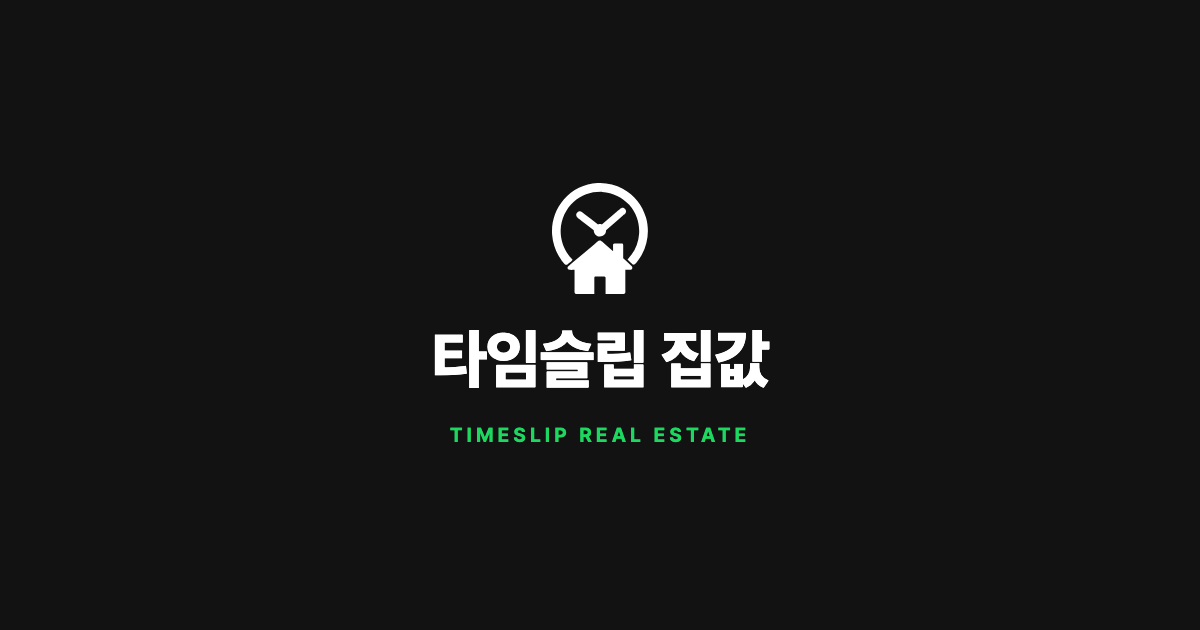
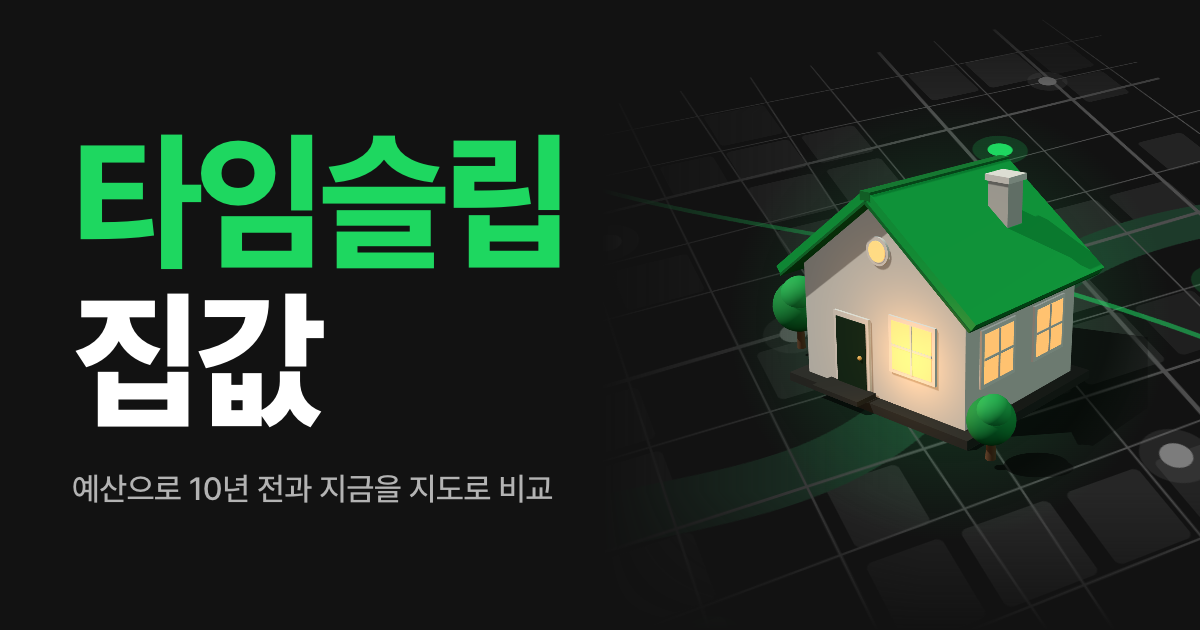
공유 이미지를 타이틀과 3D 집, 지도 디자인으로 교체

diff --git a/design/og/og-image.html b/design/og/og-image.html
@@ -1,0 +1,11 @@
+<!doctype html><html lang="ko"><head><meta charset="utf-8"><link rel="stylesheet" href="https://cdn.jsdelivr.net/gh/orioncactus/pretendard@v1.3.9/dist/web/static/pretendard.min.css"><style>
+*{box-sizing:border-box;margin:0}html,body{width:1200px;height:630px;overflow:hidden;background:#121212;color:#fff;font-family:Pretendard,sans-serif;-webkit-font-smoothing:antialiased;word-break:keep-all}
+.scene{position:absolute;left:470px;top:0;width:730px;height:630px;overflow:hidden;-webkit-mask-image:linear-gradient(90deg,transparent 18%,#000 62%),linear-gradient(0deg,transparent 0,#000 22%,#000 82%,transparent 100%);-webkit-mask-composite:source-in;mask-composite:intersect}
+.plane{position:absolute;left:-70px;top:-210px;width:1000px;height:1000px;transform:perspective(1100px) rotateX(52deg) rotateZ(-24deg)}
+.house{position:absolute;left:690px;top:40px;width:520px;height:520px;z-index:2;transform:translateX(-10px) scale(.8);transform-origin:center;-webkit-mask-image:radial-gradient(ellipse 58% 62% at 50% 50%,#000 72%,transparent 100%)}#house3d{width:520px;height:520px;display:block}
+.glow{position:absolute;left:720px;top:90px;width:460px;height:460px;border-radius:50%;background:radial-gradient(circle,rgba(30,215,96,.24),transparent 68%)}
+.copy{position:absolute;left:72px;top:0;height:630px;display:flex;flex-direction:column;justify-content:center;z-index:3}
+h1{font-size:150px;font-weight:800;letter-spacing:-.04em;line-height:1.06}h1 span{color:#1ed760}
+p{margin-top:30px;font-size:32px;font-weight:500;color:#b3b3b3;letter-spacing:-.01em}
+</style></head><body><div class="scene"><div class="plane"><svg xmlns="http://www.w3.org/2000/svg" viewBox="0 0 1000 1000" width="1000" height="1000"><rect x="68" y="798" width="74" height="79" rx="6" fill="#262626"/><rect x="158" y="173" width="69" height="69" rx="6" fill="#1f1f1f"/><rect x="158" y="533" width="69" height="69" rx="6" fill="#232323"/><rect x="158" y="618" width="69" height="79" rx="6" fill="#2a2a2a"/><rect x="158" y="713" width="69" height="69" rx="6" fill="#1f1f1f"/><rect x="158" y="798" width="69" height="79" rx="6" fill="#2a2a2a"/><rect x="158" y="893" width="69" height="49" rx="6" fill="#232323"/><rect x="243" y="353" width="79" height="69" rx="6" fill="#1f1f1f"/><rect x="338" y="173" width="64" height="69" rx="6" fill="#1f1f1f"/><rect x="338" y="533" width="64" height="69" rx="6" fill="#2a2a2a"/><rect x="338" y="713" width="64" height="69" rx="6" fill="#2a2a2a"/><rect x="338" y="798" width="64" height="79" rx="6" fill="#232323"/><rect x="418" y="78" width="79" height="79" rx="6" fill="#1f1f1f"/><rect x="418" y="173" width="79" height="69" rx="6" fill="#262626"/><rect x="418" y="258" width="79" height="79" rx="6" fill="#2a2a2a"/><rect x="418" y="353" width="79" height="69" rx="6" fill="#2a2a2a"/><rect x="418" y="438" width="79" height="79" rx="6" fill="#1f1f1f"/><rect x="418" y="798" width="79" height="79" rx="6" fill="#2a2a2a"/><rect x="513" y="173" width="69" height="69" rx="6" fill="#262626"/><rect x="513" y="258" width="69" height="79" rx="6" fill="#262626"/><rect x="513" y="353" width="69" height="69" rx="6" fill="#262626"/><rect x="513" y="438" width="69" height="79" rx="6" fill="#262626"/><rect x="513" y="533" width="69" height="69" rx="6" fill="#232323"/><rect x="513" y="618" width="69" height="79" rx="6" fill="#1f1f1f"/><rect x="513" y="798" width="69" height="79" rx="6" fill="#262626"/><rect x="598" y="353" width="84" height="69" rx="6" fill="#2a2a2a"/><rect x="598" y="438" width="84" height="79" rx="6" fill="#2a2a2a"/><rect x="598" y="533" width="84" height="69" rx="6" fill="#2a2a2a"/><rect x="598" y="618" width="84" height="79" rx="6" fill="#232323"/><rect x="598" y="798" width="84" height="79" rx="6" fill="#232323"/><rect x="598" y="893" width="84" height="49" rx="6" fill="#232323"/><rect x="698" y="78" width="69" height="79" rx="6" fill="#262626"/><rect x="698" y="438" width="69" height="79" rx="6" fill="#262626"/><rect x="698" y="618" width="69" height="79" rx="6" fill="#1f1f1f"/><rect x="783" y="78" width="79" height="79" rx="6" fill="#2a2a2a"/><rect x="783" y="438" width="79" height="79" rx="6" fill="#232323"/><rect x="878" y="78" width="64" height="79" rx="6" fill="#1f1f1f"/><rect x="878" y="173" width="64" height="69" rx="6" fill="#232323"/><rect x="878" y="353" width="64" height="69" rx="6" fill="#232323"/><rect x="878" y="533" width="64" height="69" rx="6" fill="#1f1f1f"/><rect x="878" y="713" width="64" height="69" rx="6" fill="#262626"/><path d="M-20 700 C 180 620, 290 760, 470 640 S 760 480, 1020 560" fill="none" stroke="#1d3a2a" stroke-width="58" stroke-linecap="round"/><line x1="60" y1="0" x2="90" y2="1000" stroke="#4d4d4d" stroke-width="3"/><line x1="150" y1="0" x2="145" y2="1000" stroke="#4d4d4d" stroke-width="2"/><line x1="235" y1="0" x2="209" y2="1000" stroke="#4d4d4d" stroke-width="2"/><line x1="330" y1="0" x2="323" y2="1000" stroke="#4d4d4d" stroke-width="2"/><line x1="410" y1="0" x2="438" y2="1000" stroke="#4d4d4d" stroke-width="2"/><line x1="505" y1="0" x2="477" y2="1000" stroke="#4d4d4d" stroke-width="2"/><line x1="590" y1="0" x2="587" y2="1000" stroke="#4d4d4d" stroke-width="2"/><line x1="690" y1="0" x2="664" y2="1000" stroke="#4d4d4d" stroke-width="5"/><line x1="775" y1="0" x2="750" y2="1000" stroke="#4d4d4d" stroke-width="2"/><line x1="870" y1="0" x2="843" y2="1000" stroke="#4d4d4d" stroke-width="5"/><line x1="950" y1="0" x2="980" y2="1000" stroke="#4d4d4d" stroke-width="2"/><line x1="0" y1="70" x2="1000" y2="80" stroke="#4d4d4d" stroke-width="2"/><line x1="0" y1="165" x2="1000" y2="171" stroke="#4d4d4d" stroke-width="2"/><line x1="0" y1="250" x2="1000" y2="223" stroke="#4d4d4d" stroke-width="5"/><line x1="0" y1="345" x2="1000" y2="317" stroke="#4d4d4d" stroke-width="2"/><line x1="0" y1="430" x2="1000" y2="418" stroke="#4d4d4d" stroke-width="2"/><line x1="0" y1="525" x2="1000" y2="504" stroke="#4d4d4d" stroke-width="5"/><line x1="0" y1="610" x2="1000" y2="616" stroke="#4d4d4d" stroke-width="2"/><line x1="0" y1="705" x2="1000" y2="710" stroke="#4d4d4d" stroke-width="3"/><line x1="0" y1="790" x2="1000" y2="766" stroke="#4d4d4d" stroke-width="2"/><line x1="0" y1="885" x2="1000" y2="878" stroke="#4d4d4d" stroke-width="2"/><line x1="0" y1="950" x2="1000" y2="955" stroke="#4d4d4d" stroke-width="2"/><path d="M120 -10 C 260 240, 420 330, 560 470 S 820 800, 900 1010" fill="none" stroke="#1ed760" stroke-opacity=".55" stroke-width="7"/><circle cx="250" cy="300" r="33.0" fill="#7c7c7c" fill-opacity=".18"/><circle cx="250" cy="300" r="15" fill="#7c7c7c"/><circle cx="380" cy="520" r="28.6" fill="#7c7c7c" fill-opacity=".18"/><circle cx="380" cy="520" r="13" fill="#7c7c7c"/><circle cx="720" cy="300" r="33.0" fill="#1ed760" fill-opacity=".18"/><circle cx="720" cy="300" r="15" fill="#1ed760"/><circle cx="800" cy="620" r="28.6" fill="#1ed760" fill-opacity=".18"/><circle cx="800" cy="620" r="13" fill="#1ed760"/><circle cx="620" cy="800" r="30.800000000000004" fill="#7c7c7c" fill-opacity=".18"/><circle cx="620" cy="800" r="14" fill="#7c7c7c"/><circle cx="210" cy="820" r="26.400000000000002" fill="#1ed760" fill-opacity=".18"/><circle cx="210" cy="820" r="12" fill="#1ed760"/><circle cx="860" cy="170" r="26.400000000000002" fill="#7c7c7c" fill-opacity=".18"/><circle cx="860" cy="170" r="12" fill="#7c7c7c"/></svg></div></div><div class="glow"></div><div class="house"><canvas id="house3d"></canvas></div><script type="module" src="house.js"></script>
+<div class="copy"><h1><span>타임슬립</span><br>집값</h1><p>예산으로 10년 전과 지금을 지도로 비교</p></div></body></html>

diff --git a/design/og/house.js b/design/og/house.js
@@ -1,0 +1,80 @@
+import * as THREE from 'https://cdn.jsdelivr.net/npm/three@0.160.0/build/three.module.js';
+const size = 620;
+const canvas = document.getElementById('house3d');
+const r = new THREE.WebGLRenderer({ canvas, alpha: true, antialias: true, preserveDrawingBuffer: true });
+r.setPixelRatio(2); r.setSize(size, size, false);
+r.setClearColor(0x000000, 0);
+r.shadowMap.enabled = true; r.shadowMap.type = THREE.PCFSoftShadowMap;
+r.toneMapping = THREE.LinearToneMapping; r.toneMappingExposure = .78;
+r.outputColorSpace = THREE.SRGBColorSpace;
+const scene = new THREE.Scene();
+const cam = new THREE.PerspectiveCamera(24, 1, .1, 100);
+cam.position.set(11.6, 8.2, 13.8); cam.lookAt(0, 1.7, 0);
+
+const mat = (color, roughness = .75, extra = {}) => new THREE.MeshStandardMaterial({ color, roughness, metalness: 0, ...extra });
+const wall = mat(0xf1f3f1, .85), trim = mat(0xffffff, .6), roofM = mat(0x12c653, .5), roofDark = mat(0x0b8a39, .6);
+const glass = mat(0xffd9a0, .35, { emissive: 0xffb45e, emissiveIntensity: 1.1 });
+const doorM = mat(0x17331f, .5), base = mat(0x2a2d2b, .9), chim = mat(0xd9dcda, .85);
+const add = (geo, m, x = 0, y = 0, z = 0, parent = scene) => { const o = new THREE.Mesh(geo, m); o.position.set(x, y, z); o.castShadow = o.receiveShadow = true; parent.add(o); return o; };
+const box = (w, h, d, m, x, y, z, parent) => add(new THREE.BoxGeometry(w, h, d), m, x, y, z, parent);
+
+const W = 4, D = 3.4, H = 2.3, R = 1.55;
+// 기단
+box(W + .55, .18, D + .55, base, 0, .09, 0);
+// 벽체: 오각형 단면을 깊이 방향으로 돌출
+const s = new THREE.Shape();
+s.moveTo(-W / 2, 0); s.lineTo(W / 2, 0); s.lineTo(W / 2, H); s.lineTo(0, H + R); s.lineTo(-W / 2, H); s.closePath();
+const body = add(new THREE.ExtrudeGeometry(s, { depth: D, bevelEnabled: false }), wall, 0, .18, -D / 2);
+// 지붕
+const ang = Math.atan2(R, W / 2), len = Math.hypot(W / 2, R) + .42, th = .17, rd = D + .62;
+for (const side of [-1, 1]) {
+  const g = new THREE.Group(); g.position.set(side * W / 4, .18 + H + R / 2, 0); g.rotation.z = -side * ang; scene.add(g);
+  const off = .12;
+  box(len, th, rd, roofM, side * (.21 - .0), off, 0, g);
+  box(len, .05, rd + .04, roofDark, side * .21, off - th / 2 - .02, 0, g);
+}
+box(.24, .16, rd + .02, roofDark, 0, .18 + H + R + .13, 0);
+// 굴뚝
+box(.46, 1.05, .46, chim, 1.05, 3.65, -.65);
+box(.56, .12, .56, trim, 1.05, 4.2, -.65);
+// 앞면 현관
+const fz = D / 2 + .012;
+box(.92, 1.55, .08, trim, -.72, .95, fz);
+box(.76, 1.42, .1, doorM, -.72, .91, fz + .012);
+add(new THREE.SphereGeometry(.045, 16, 12), mat(0xe8c26a, .3), -.47, .92, fz + .08);
+box(1.2, .1, .5, base, -.72, .23, fz + .28);
+// 창문
+const win = (x, y, z, w, h, axis) => {
+  const fw = axis === 'z' ? [w + .16, h + .16, .07] : [.07, h + .16, w + .16];
+  const pw = axis === 'z' ? [w, h, .09] : [.09, w === 0 ? h : h, w];
+  box(...fw, trim, x, y, z);
+  box(axis === 'z' ? w : .09, h, axis === 'z' ? .09 : w, glass, x, y, z);
+  box(axis === 'z' ? .045 : .11, h, axis === 'z' ? .11 : .045, trim, x, y, z);
+  box(axis === 'z' ? w : .11, .045, axis === 'z' ? .11 : w, trim, x, y, z);
+};
+win(.8, 1.4, fz, .95, .95, 'z');
+const fx = W / 2 + .012;
+win(fx, 1.4, -.8, .85, .95, 'x');
+win(fx, 1.4, .8, .85, .95, 'x');
+// 박공 원형 창
+const rg = add(new THREE.CylinderGeometry(.27, .27, .07, 40), trim, 0, 3.1, fz); rg.rotation.x = Math.PI / 2;
+const rp = add(new THREE.CylinderGeometry(.2, .2, .09, 40), glass, 0, 3.1, fz + .005); rp.rotation.x = Math.PI / 2;
+// 나무
+const tree = (x, z, h) => {
+  add(new THREE.CylinderGeometry(.07, .09, h * .4, 14), mat(0x6b4a2f, .9), x, .18 + h * .2, z);
+  add(new THREE.SphereGeometry(h * .36, 28, 22), mat(0x15a84b, .8), x, .18 + h * .62, z);
+  add(new THREE.SphereGeometry(h * .25, 24, 18), mat(0x24c95f, .8), x + h * .1, .18 + h * .82, z + h * .08);
+};
+tree(-3.05, .95, 1.55); tree(2.95, 2.2, 1.15);
+// 그림자 받는 바닥(투명)
+const ground = new THREE.Mesh(new THREE.PlaneGeometry(40, 40), new THREE.ShadowMaterial({ opacity: .62 }));
+ground.rotation.x = -Math.PI / 2; ground.receiveShadow = true; scene.add(ground);
+// 조명
+scene.add(new THREE.HemisphereLight(0xf2f5f3, 0x20241f, 1.25));
+const sun = new THREE.DirectionalLight(0xfff6e8, 2.3); sun.position.set(-7, 12, 8); sun.castShadow = true;
+sun.shadow.mapSize.set(4096, 4096); sun.shadow.radius = 9; sun.shadow.bias = -.0004;
+Object.assign(sun.shadow.camera, { left: -9, right: 9, top: 9, bottom: -9, near: .5, far: 40 }); scene.add(sun);
+const rim = new THREE.DirectionalLight(0xa8ffc8, .45); rim.position.set(8, 5, -8); scene.add(rim);
+const fill = new THREE.PointLight(0xffb45e, 5, 6); fill.position.set(.8, 1.2, D / 2 + 1.2); scene.add(fill);
+r.render(scene, cam);
+document.body.dataset.done = '1';

diff --git a/app/index.html b/app/index.html
@@ -13,14 +13,14 @@
     <meta property="og:title" content="타임슬립 집값" />
     <meta property="og:description" content="예산으로 10년 전과 지금, 어디서 살 수 있었는지 지도로 비교합니다." />
     <meta property="og:url" content="https://novlive.com/timeslip/" />
-    <meta property="og:image" content="https://novlive.com/timeslip/og-image.png" />
+    <meta property="og:image" content="https://novlive.com/timeslip/og-image.png?v=2" />
     <meta property="og:image:width" content="1200" />
     <meta property="og:image:height" content="630" />
 
     <meta name="twitter:card" content="summary_large_image" />
     <meta name="twitter:title" content="타임슬립 집값" />
     <meta name="twitter:description" content="예산으로 10년 전과 지금, 어디서 살 수 있었는지 지도로 비교합니다." />
-    <meta name="twitter:image" content="https://novlive.com/timeslip/og-image.png" />
+    <meta name="twitter:image" content="https://novlive.com/timeslip/og-image.png?v=2" />
   </head>
   <body>
     <div id="root"></div>
